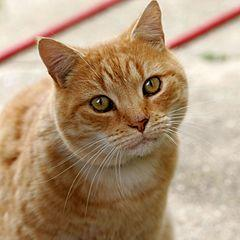
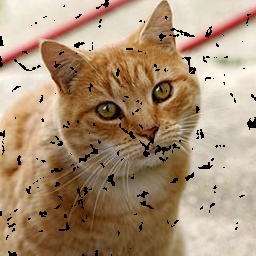
GUI update
Code has been connected with image damage generator. Code is ready to connect with Autoencoder and Upscaler.

diff --git a/GUI.py b/GUI.py
@@ -1,3 +1,6 @@
+###################################################################
+# ( 1 ) Libs
+###################################################################
 import sys
 import os
 from PyQt6 import uic
@@ -8,27 +11,33 @@ import time
 import numpy as np
 import pyarrow as pa
 from PIL import Image
+from DataBase.DataBase_Functions import Random_Damage_Generator
+import torch
+import numpy as np
+import matplotlib.pyplot as plt
+from PIL import Image
+
+###################################################################
+# ( 2 ) Class encoder, contains all functions for image processing
+###################################################################
 
 class Encoder:
     def __init__(self):
         self.image_path = None
 
     def convert_to_arrow(self, path):
-        """Konwertuje plik obrazu do formatu tabelarycznego Apache Arrow"""
+        """Converts a JPG image to an Apache Arrow Table"""
         try:
-            # 1. Otwarcie obrazu i konwersja na tablicę NumPy (RGB)
+            # Open image using PIL
             img = Image.open(path).convert('RGB')
             img_data = np.array(img)
             
-            # Pobieramy wymiary
+            # Download image dimensions
             height, width, channels = img_data.shape
             
-            # 2. Spłaszczamy dane do formy wektora (dla tabeli Arrow)
-            # Każdy wiersz w tabeli może reprezentować jeden piksel lub cały obraz jako blob
             flat_data = img_data.tobytes()
             
-            # 3. Tworzymy strukturę danych Arrow
-            # Tutaj zapisujemy metadane (wymiary) oraz same dane binarnie
+            # Create Arrow Table
             data = [
                 pa.array([width]),
                 pa.array([height]),
@@ -45,20 +54,20 @@ class Encoder:
             return None
         
     def arrow_to_jpg(self, output_path="result.jpg"):
-        """Konwertuje tabelę Apache Arrow z powrotem na plik JPG"""
+        """Converts an Apache Arrow Table back to a JPG image"""
+
+        output_path = "GUI/" + output_path
         try:
-            # 1. Ekstrakcja danych z tabeli Arrow
-            # Pobieramy pierwszy element z każdej kolumny
+            # Extract data from the Arrow table
             width = self.image_as_table.column('width')[0].as_py()
             height = self.image_as_table.column('height')[0].as_py()
             image_bytes = self.image_as_table.column('image_bytes')[0].as_py()
 
-            # 2. Konwersja bajtów z powrotem na tablicę NumPy
-            # Musimy wiedzieć, że obraz był w formacie RGB (3 kanały)
+            # Convert bytes back to a NumPy array (RGB - 3 channels)
             flat_data = np.frombuffer(image_bytes, dtype=np.uint8)
             img_data = flat_data.reshape((height, width, 3))
 
-            # 3. Tworzenie obiektu obrazu PIL i zapis do JPG
+            # 3. Create a PIL image object and save as JPG
             img = Image.fromarray(img_data, 'RGB')
             img.save(output_path, "JPEG")
 
@@ -68,12 +77,63 @@ class Encoder:
         except Exception as e:
             print(f"Błąd konwersji z Arrow do JPG: {e}")
             return None
+        
+    def save_tensor_as_jpg(self, image_tensor, output_path="damaged_output.jpg"):
+        """
+        image_tensor: Tensor of shape (1, C, H, W) or (C, H, W) in range [0, 1]
+        output_path: File save path
+        """
+        # Remove the Batch dimension (if it exists) and move to CPU
+        if image_tensor.dim() == 4:
+            image_tensor = image_tensor.squeeze(0)
+        
+        # Conversion: (C, H, W) -> (H, W, C)
+        img_np = image_tensor.permute(1, 2, 0).cpu().numpy()
+        
+        # Scale to [0, 255] and convert to integer type (uint8)
+        img_np = (img_np * 255.0).clip(0, 255).astype(np.uint8)
+        
+        # Create PIL Image object and save
+        final_image = Image.fromarray(img_np)
+        final_image.save(output_path, quality=95)
+        return output_path
 
     def crash_image(self):
         print("Crashing image...")
-        crashed_img = self.convert_to_arrow(self.image_path)
+        device = torch.device('cuda' if torch.cuda.is_available() else 'cpu')
+
+        try:
+            # Load, convert to RGB and resize (class default uses shape 256x256)
+            original_pil = Image.open(self.image_path).convert("RGB")
+            original_pil = original_pil.resize((256, 256)) 
+            
+            # Convert to numpy array and normalize to [0, 1] range
+            img_np = np.array(original_pil, dtype=np.float32) / 255.0
+            
+            # Convert to PyTorch tensor: (H, W, C) -> (C, H, W) -> (B, C, H, W)
+            # B (Batch) = 1
+            img_tensor = torch.from_numpy(img_np).permute(2, 0, 1).unsqueeze(0).to(device)
+        except FileNotFoundError:
+            # If the file is not found, generate noise so the code remains functional
+            print("Nie znaleziono pliku, używam losowego szumu.")
+            img_tensor = torch.rand((1, 3, 256, 256)).to(device)
+
+        # Initialize the damage generator
+        dmg_gen = Random_Damage_Generator(device=device)
+
+        # Generate mask with expected shape (B, H, W)
+        B, C, H, W = img_tensor.shape
+        mask, metadata = dmg_gen.generate(shape=(B, H, W))
+
+        # Apply damage (following logic in Async_DataLoader)
+        # Add channel dimension to the mask: (B, 1, H, W)
+        damaged_img_tensor = img_tensor * (1.0 - mask.unsqueeze(1))
+
+        damaged_image_path = self.save_tensor_as_jpg(damaged_img_tensor, "crashed_image.jpg")
+        
+        crashed_img = self.convert_to_arrow(damaged_image_path)
         self.crashed_img_arrow = crashed_img
-        return self.arrow_to_jpg("crashed_image.jpg")
+        return damaged_image_path
 
     def Auto_encode(self):
         print("Auto encoding image...")
@@ -84,6 +144,10 @@ class Encoder:
         print("Upscaling image...")
         self.upscaled_image = self.fixed_image
         return self.arrow_to_jpg("upscaled_image.jpg")
+    
+###################################################################
+# ( 3 ) Class GUI, responsible for the graphical interface
+###################################################################
         
 class GUI():
     def __init__(self):
@@ -94,12 +158,12 @@ class GUI():
 
     def klikniecie_w_obraz(self, event):
         """
-        Ta funkcja zastąpi standardowe zachowanie labela przy kliknięciu.
-        Argument 'event' jest przekazywany automatycznie przez PyQt.
+        This function replaces the standard label behavior on click.
+        The 'event' argument is passed automatically by PyQt.
         """
-        # Sprawdzamy, czy kliknięto Lewym Przyciskiem Myszy
+        # Check if Left Mouse Button was clicked
         if event.button() == Qt.MouseButton.LeftButton:
-            # Otwieramy okno wyboru pliku
+            # Open file dialog
             plik, _ = QFileDialog.getOpenFileName(
                 self.window, 
                 "Wybierz zdjęcie", 
@@ -108,11 +172,11 @@ class GUI():
             )
 
             if plik:
-                # Tworzymy obraz
+                # Create the image
                 self.image = plik
                 pixmap = QPixmap(plik)
                 
-                # Skalujemy do rozmiaru ramki
+                # Scale to frame size
                 wymiar_ramki = self.window.imageLabel.size()
                 skalowane_foto = pixmap.scaled(
                     wymiar_ramki,
@@ -120,70 +184,64 @@ class GUI():
                     Qt.TransformationMode.SmoothTransformation
                 )
                 
-                # Ustawiamy obraz
+                # Set the image
                 self.window.imageLabel.setPixmap(skalowane_foto)
-                self.window.imageLabel.setText("")  # Czyścimy tekst "Brak zdjęcia"
+                self.window.imageLabel.setText("")  # Clear the "Brak zdjęcia" (No image) text
                 self.window.btnStart.setEnabled(True)
                 self.aktualizuj_status("Click start to process the image")
     
     def drugie_okno(self):
-        """Funkcja ładująca i wyświetlająca Second_window.ui"""
-        # 1. Zmieniamy status na przetwarzanie
+        """Function loading and displaying Second_window.ui"""
+        # Change status to processing
         self.aktualizuj_status("Processing...")
-        QCoreApplication.processEvents() # Odświeżamy UI, by napis się pojawił
+        QCoreApplication.processEvents() # Refresh UI so the label updates
         
-        # Symulacja czasu pracy (np. 1 sekunda)
+        # Simulate processing time (e.g., 1 second)
         time.sleep(1)
 
-        # 2. Ładujemy drugie okno, jeśli jeszcze nie istnieje
+        # Load the second window if it doesn't exist yet
         if self.second_window is None:
             current_dir = os.path.dirname(os.path.abspath(__file__))
-            second_ui_path = os.path.join(current_dir, "Second_window.ui")
+            second_ui_path = os.path.join(current_dir, "GUI/Second_window.ui")
             self.second_window = uic.loadUi(second_ui_path)
 
-        # 3. Wyświetlamy drugie okno
+        # Display the second window
         self.second_window.show()
-        
-        # 4. (Opcjonalnie) Możemy ukryć pierwsze okno:
-        # self.window.hide()
         
         self.aktualizuj_status("Done! Window opened.")
 
     def trzecie_okno(self):
-        """Funkcja ładująca i wyświetlająca Third_window.ui"""
-        # 1. Zmieniamy status na przetwarzanie
+        """Function loading and displaying Third_window.ui"""
+        # Change status to processing
         self.aktualizuj_status("Processing...")
-        QCoreApplication.processEvents() # Odświeżamy UI, by napis się pojawił
+        QCoreApplication.processEvents() # Refresh UI so the label updates
         
-        # Symulacja czasu pracy (np. 1 sekunda)
+        # Simulate processing time (e.g., 1 second)
         time.sleep(1)
 
-        # 2. Ładujemy drugie okno, jeśli jeszcze nie istnieje
+        # Load the third window if it doesn't exist yet
         if self.third_window is None:
             current_dir = os.path.dirname(os.path.abspath(__file__))
-            third_ui_path = os.path.join(current_dir, "Third_window.ui")
+            third_ui_path = os.path.join(current_dir, "GUI/Third_window.ui")
             self.third_window = uic.loadUi(third_ui_path)
 
-        # 3. Wyświetlamy drugie okno
+        # Display the third window
         self.third_window.show()
-        
-        # 4. (Opcjonalnie) Możemy ukryć pierwsze okno:
-        # self.window.hide()
         
         self.aktualizuj_status("Done! Window opened.")
 
     def wyczysc_wszystko(self):
-        """Funkcja do czyszczenia obrazu i resetowania statusu"""
+        """Function to clear image and reset status"""
         self.window.imageLabel.clear()
         self.window.imageLabel.setText("Click to add image")
         self.aktualizuj_status("Image cleared. Click to add a new image.")
         self.window.btnStart.setEnabled(False)
 
     def start_process(self):
-        """Funkcja wywoływana po kliknięciu Start - sprawdza DropDown i wybiera okno"""
+        """Function called on Start click - checks DropDown and selects window"""
         wybor = self.window.DropDown.currentText()
 
-        E = Encoder()  # Inicjalizacja klasy Encoder
+        E = Encoder()  # Initialize Encoder class
         E.image_path = self.image
         path1 = E.crash_image()
         path2 = E.Auto_encode()
@@ -205,7 +263,7 @@ class GUI():
             self.aktualizuj_status("Select an option first!")
 
     def ustaw_obraz_w_labelu(self, label_obj, sciezka_obrazu):
-        """Pomocnicza funkcja do ładowania obrazu do konkretnego labela"""
+        """Helper function to load an image into a specific label"""
         pixmap = QPixmap(sciezka_obrazu)
         if not pixmap.isNull():
             label_obj.setPixmap(pixmap.scaled(
@@ -216,29 +274,31 @@ class GUI():
             label_obj.setText("")
 
     def aktualizuj_status(self, tekst):
-        """Pomocnicza funkcja do zmiany tekstu w dolnej etykiecie"""
+        """Helper function to change the text in the bottom label"""
         self.window.label.setText(tekst)
 
-    # --- GŁÓWNA CZĘŚĆ PROGRAMU ---
+###################################################################
+# ( 4 ) RUN GUI
+###################################################################
 
     def run(self):
         app = QApplication(sys.argv)
 
-        # Ustalenie ścieżki do pliku .ui
+        # Determine path to .ui file
         current_dir = os.path.dirname(os.path.abspath(__file__))
-        ui_file_path = os.path.join(current_dir, "Main_window.ui")
+        ui_file_path = os.path.join(current_dir, "GUI/Main_window.ui")
 
         try:
             self.window = uic.loadUi(ui_file_path)
             self.window.btnStart.setEnabled(False)
 
-            # Nadpisujemy metodę mousePressEvent dla elementu imageLabel.
+            # Override the mousePressEvent method for the imageLabel element
             self.window.imageLabel.mousePressEvent = self.klikniecie_w_obraz
 
-            # Zmieniamy kursor na "łapkę" po najechaniu na obszar zdjęcia,
+            # Change cursor to "pointing hand" when hovering over the image area
             self.window.imageLabel.setCursor(QCursor(Qt.CursorShape.PointingHandCursor))
 
-            # Obsługa pozostałych przycisków 
+            # Handle remaining buttons 
             if hasattr(self.window, 'btnExit'):
                 self.window.btnExit.clicked.connect(self.window.close)
             
